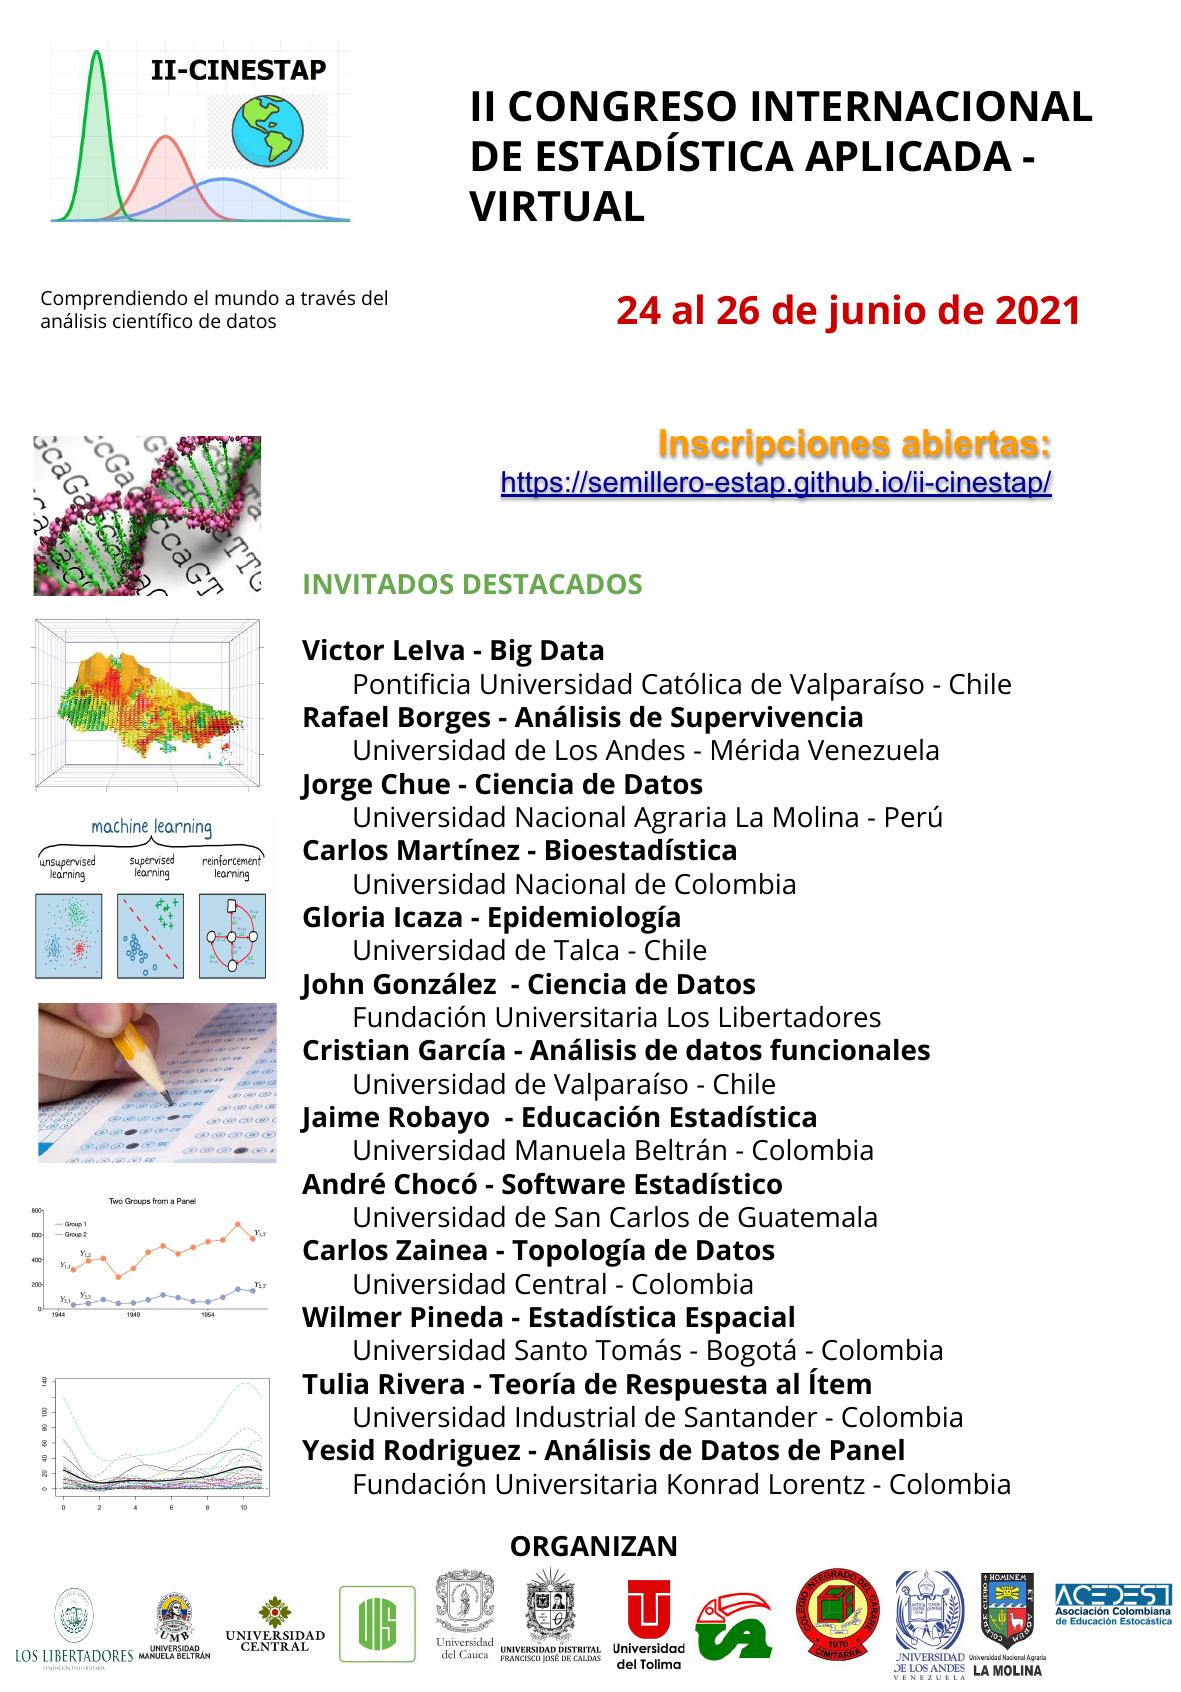
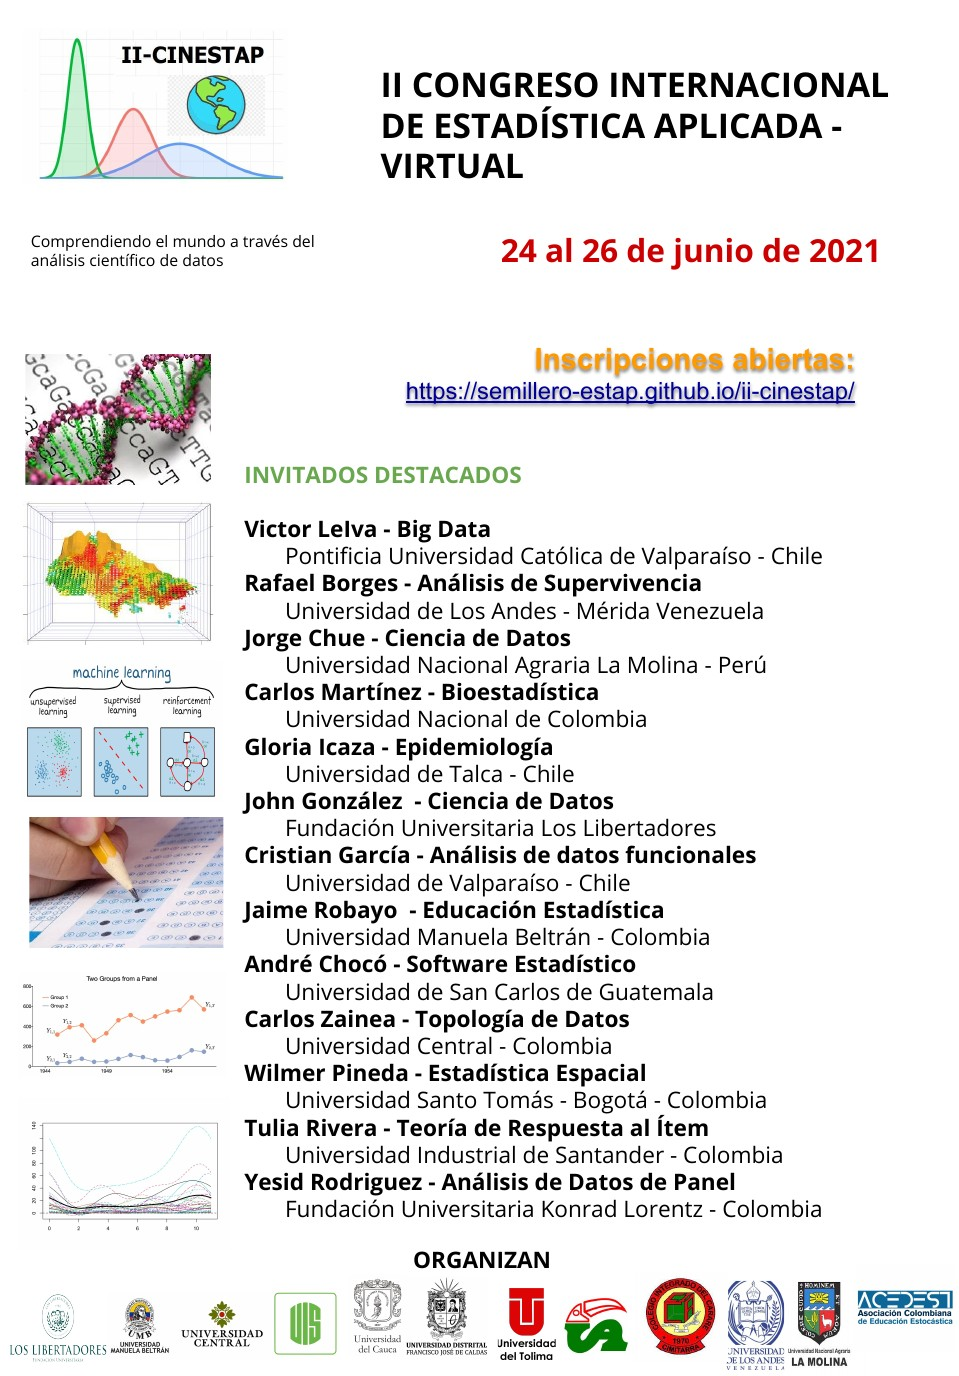
updated

diff --git a/index.html b/index.html
@@ -44,7 +44,7 @@
         <p>El II Congreso Internacional de Estadística Aplicada, busca invitar e involucrar a la comunidad estadística nacional e internacional, para analizar, discutir y divulgar metodologías, técnicas y aplicaciones de la Estadística, así como brindar y promover un espacio que posibilite la interrelación de profesionales de diversas áreas afines a la estadística. De forma que este espacio virtual permita establecer y fortalecer redes académicas, investigativas entre participantes e instituciones.</p> 
         </div>
         <div class="col">
-          <img src="scr/Estadistica.jpeg" class="img-fluid">
+          <img src="scr/publicidad.jpg" class="img-fluid">
         </div>
       </div>
     </div>
